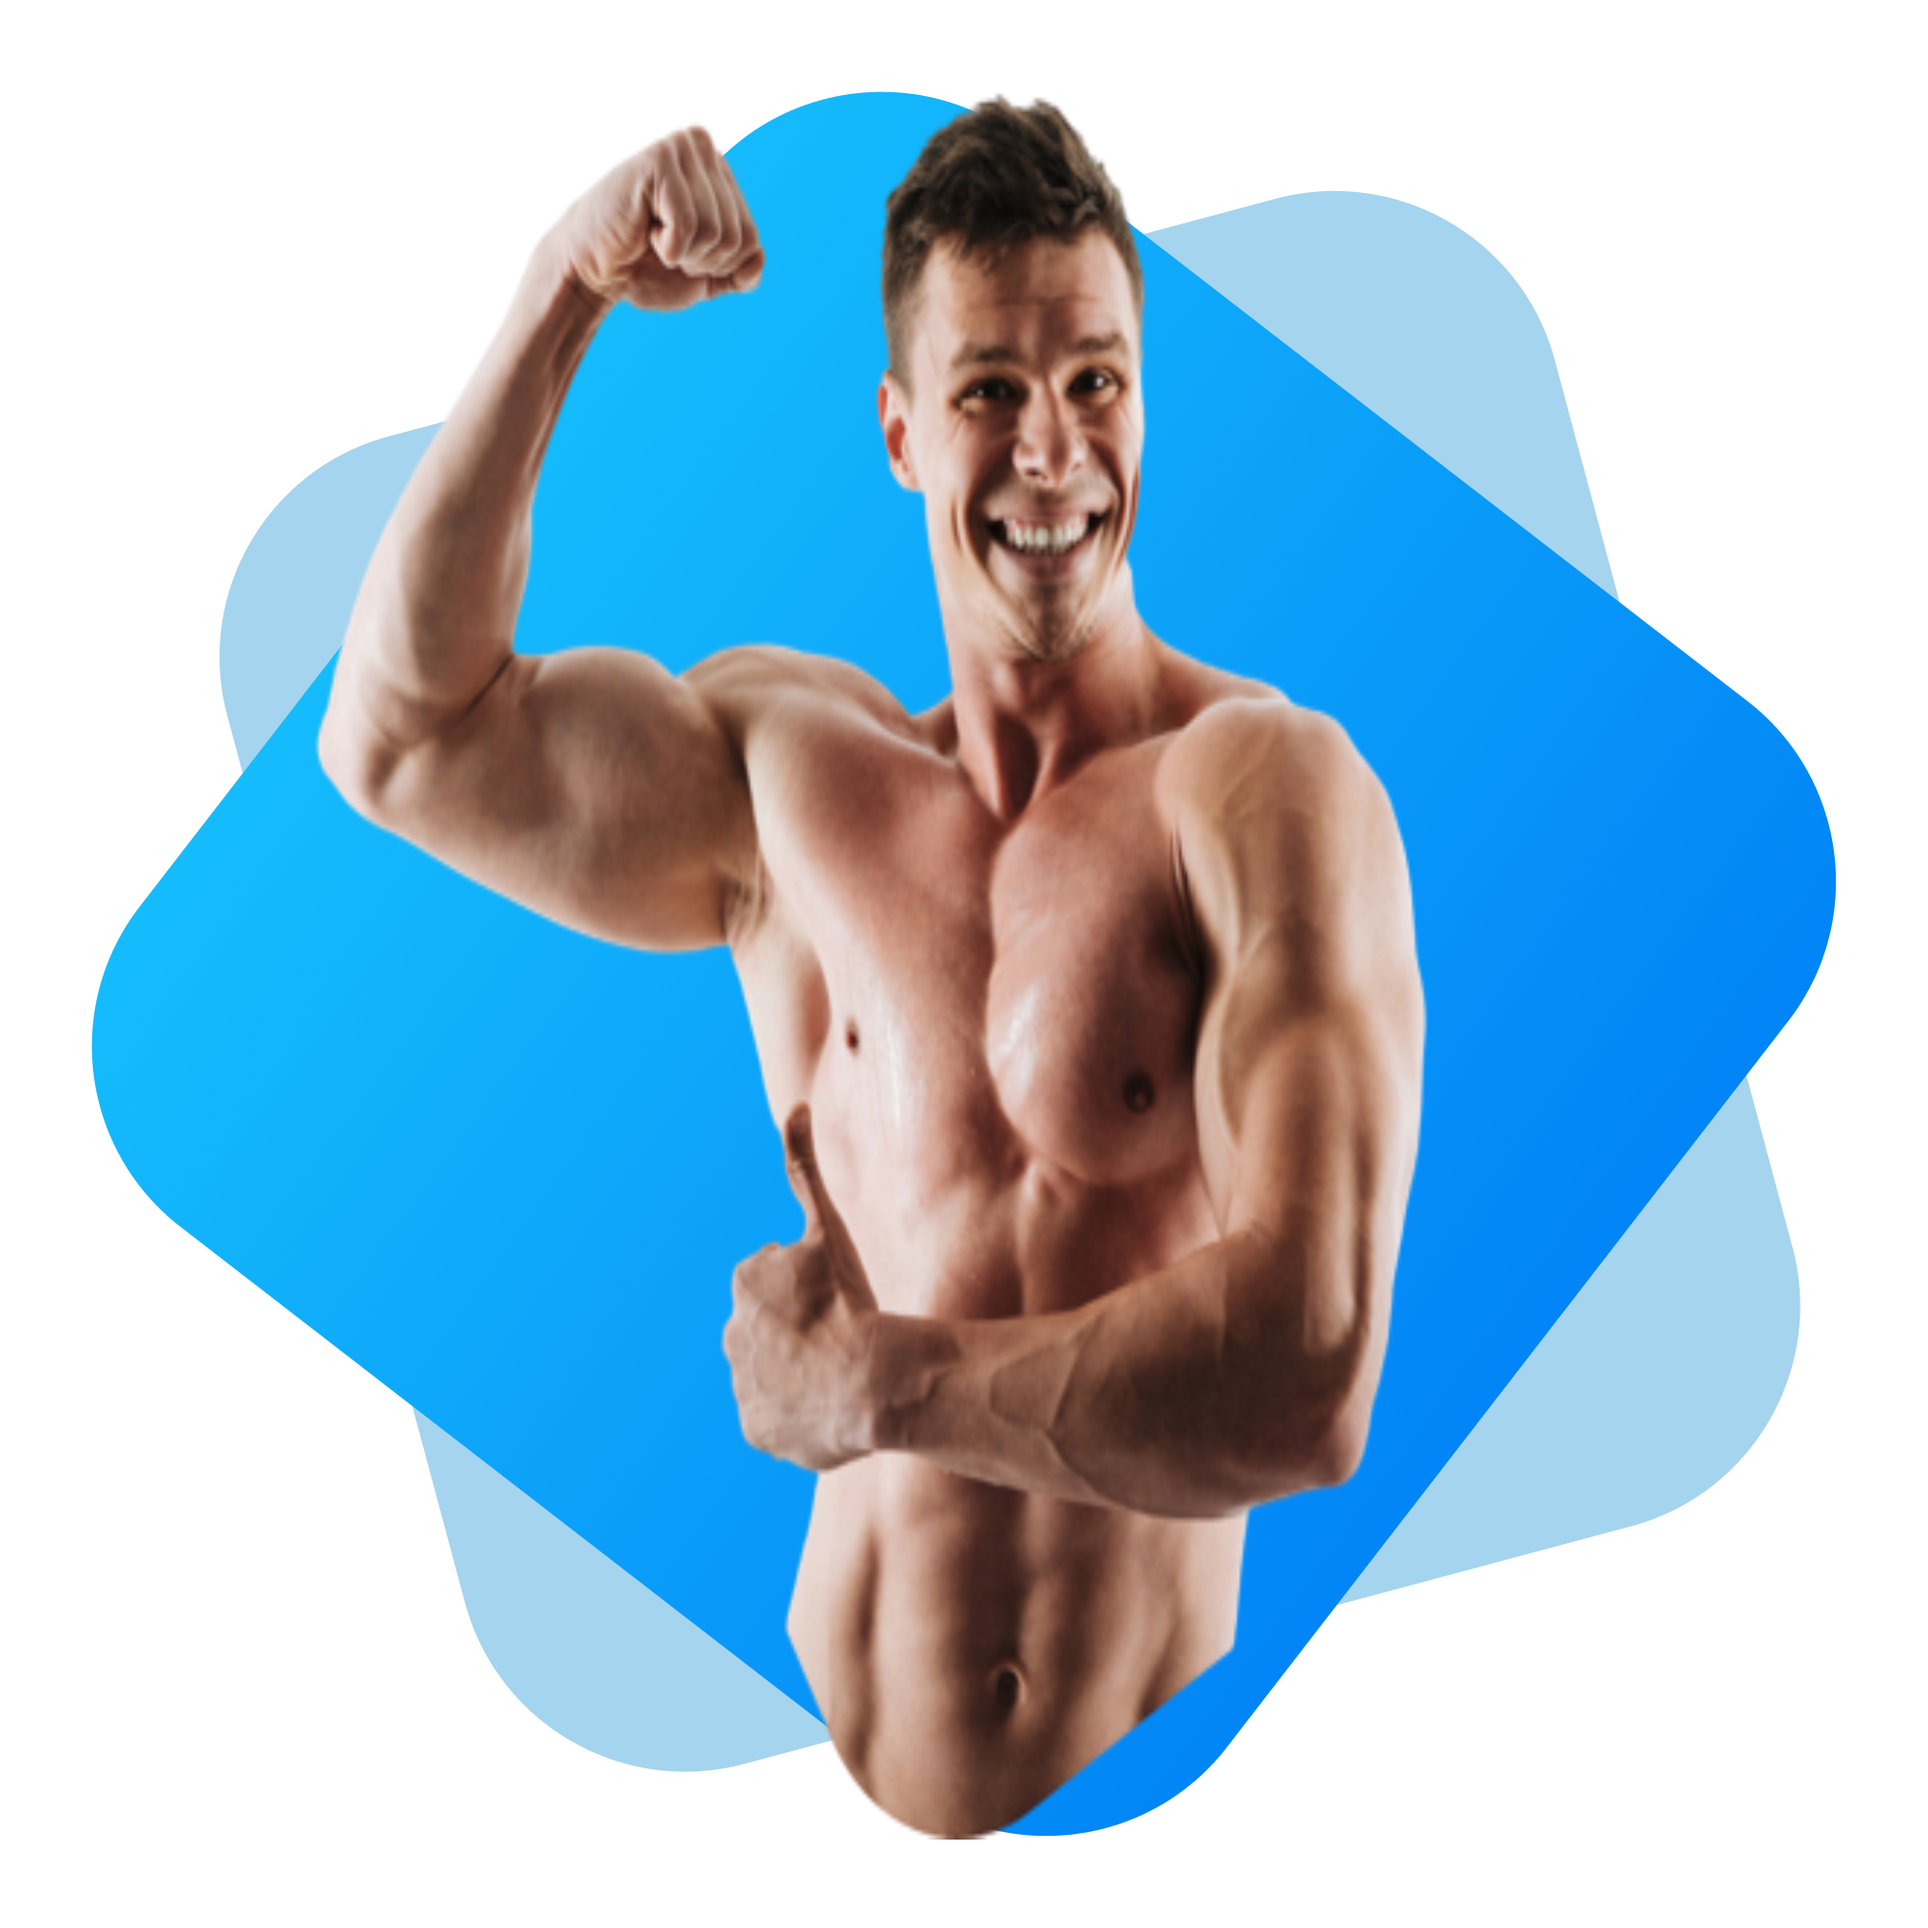
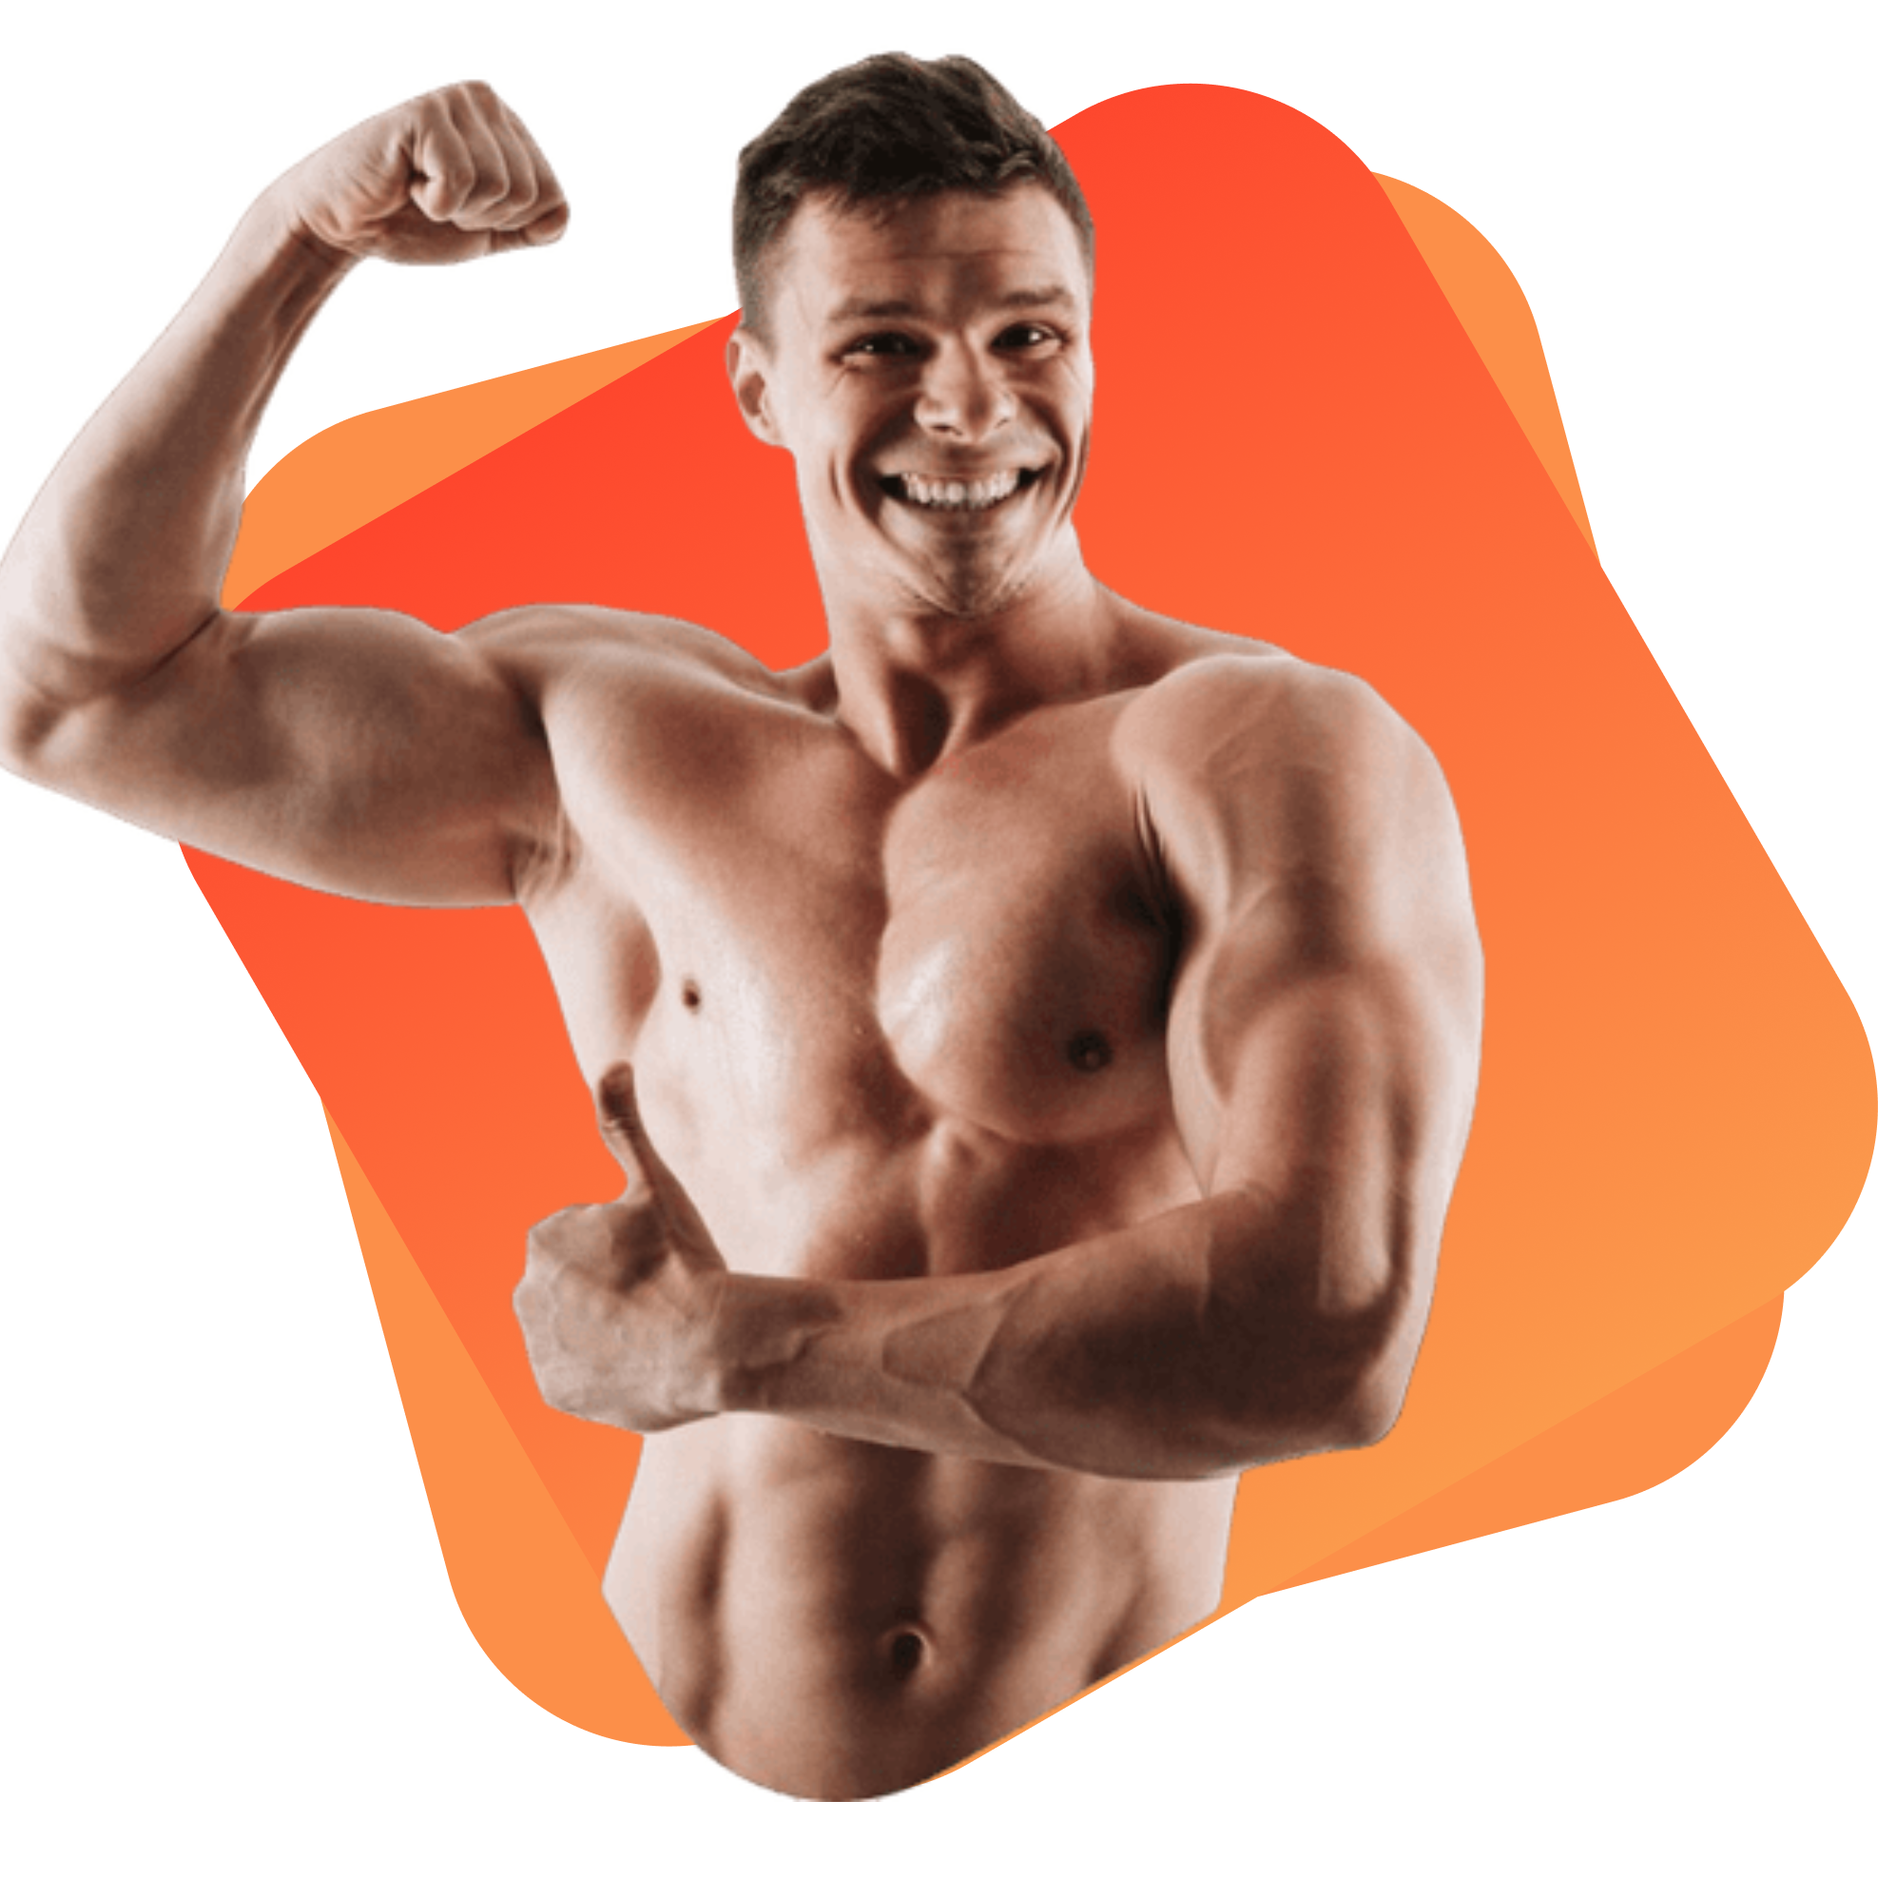
about

diff --git a/index.html b/index.html
@@ -6,11 +6,36 @@
     <meta http-equiv="X-UA-Compatible" content="IE=edge">
     <meta name="viewport" content="width=device-width, initial-scale=1.0">
     <title>Eat Healthy</title>
+    <link rel="preconnect" href="https://fonts.googleapis.com">
+    <link rel="preconnect" href="https://fonts.gstatic.com" crossorigin>
+    <link href="https://fonts.googleapis.com/css2?family=Poppins&display=swap" rel="stylesheet">
     <link rel="stylesheet" href="style.css">
 </head>
 
 <body>
-    <h1>Skip the diet,<br>Just Eat Healthy <br>With Food Network</h1>
+    <section>
+        <div class="half-width">
+            <h1><span class="color-orange">Skip</span> the diet,<br>
+                Just Eat Healthy <br> With Food Network</h1>
+            <p>Imagine you don't need a diet because we provide healthy and delicious food for you
+            </p>
+            <a class="button" href="">Order Food</a>
+        </div>
+        <div class="half-width">
+            <img class="image" src="images/hero.png" alt="">
+        </div>
+    </section>
+    <section class="about-banner">
+        <div>
+            <img class=img1 src="images/about_person.png" alt="">
+        </div>
+        <div>
+            <h2>About Me</h2>
+            <p>Lorem ipsum dolor sit amet, consectetur adipiscing elit. Condimentum diam orci pretium a pharetra,
+                feugiat cursus. Dictumst risus, sem egestas odio cras adipiscing vulputate. Nisi, risus in suscipit non.
+                Non commodo volutpat, pharetra, vel.</p>
+        </div>
+    </section>
 
 </body>
 

diff --git a/style.css b/style.css
@@ -1,0 +1,62 @@
+{
+        font-family: 'Poppins', sans-serif;
+    }
+
+    h1 {
+        font-size: 55px;
+        font-weight: 700;
+        color: #575757;
+    }
+
+    p {
+        font-size: 20px;
+        margin-bottom: 30px;
+        color: #828282;
+
+    }
+
+    .button {
+        background-image: linear-gradient(120deg, #FBA24F 50%, #FF1E1E 100%);
+        padding: 17px 35px;
+        border: none;
+        border-radius: 25px;
+        box-shadow: 0px 2px 30px 0px #FC8F4980;
+        color: white;
+        font-weight: 600;
+        font-size: 15px;
+        transition-duration: 400ms;
+        text-decoration: none;
+    }
+
+    .color-orange {
+        color: orange;
+    }
+
+    section {
+        display: flex;
+    }
+
+    .half-width {
+        width: 50%;
+        padding: 5%;
+    }
+
+
+    .image {
+        height: 550px;
+    }
+
+    .img1 {
+        margin-left: auto;
+
+        width: 100%;
+    }
+
+    .about-banner {
+        background-image: url(images/Frame\ 58.jpg);
+    }
+
+    h2 {
+        font-size: 40px;
+        font-weight: 700;
+    }
